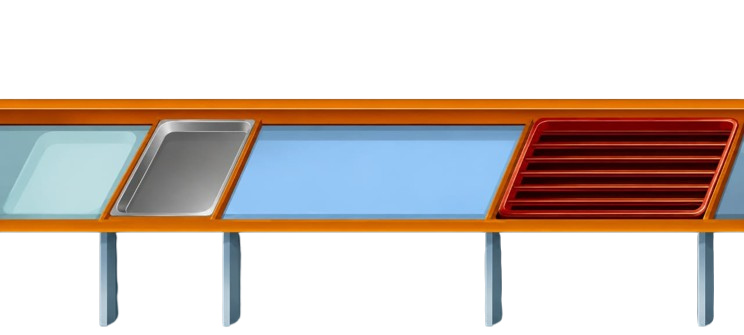
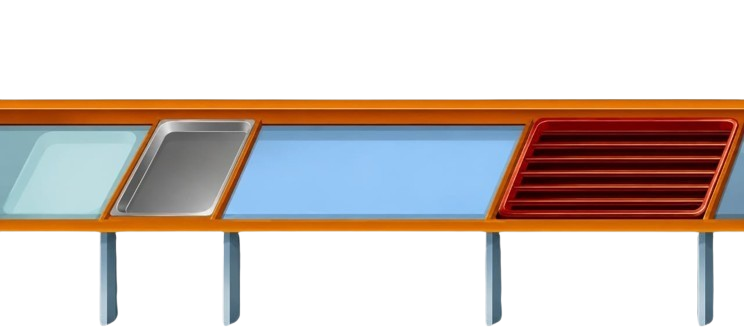
Ultimos arreglos generales

diff --git a/EMPANADAS/css/niveles.css b/EMPANADAS/css/niveles.css
@@ -129,7 +129,7 @@
 
     z-index: 3;
 
-    bottom: -20px;
+    bottom: -40px;
     left: 50%;
 
     transform: translateX(-50%);
@@ -152,14 +152,48 @@
 ========================= */
 
 .estrella {
-    width: 28px;
-    height: 28px;
+    width: 55px;
+    height: 55px;
 
     object-fit: contain;
 
     display: block;
 
     pointer-events: none;
+}
+
+/* ========================================
+   AJUSTE INDIVIDUAL DE CADA ESTRELLA
+======================================== */
+
+.estrella-1 {
+    transform: translateY(0px);
+    transform: translateX(15px);
+}
+
+.estrella-2 {
+    transform: translateY(13px);
+}
+
+.estrella-3 {
+    transform: translateY(0px);
+    transform: translateX(-15px);
+}
+
+/* ========================================
+   ESTRELLAS NIVEL 1 - AJUSTE INDIVIDUAL
+======================================== */
+
+#estrellas-nivel-1 .estrella-1 {
+    transform: translate(14px, 7px);
+}
+
+#estrellas-nivel-1 .estrella-2 {
+    transform: translate(4px, 20px);
+}
+
+#estrellas-nivel-1 .estrella-3 {
+    transform: translate(-10px, 7px);
 }
 
 
@@ -179,7 +213,7 @@
 /* Efecto de nivel desbloqueado */
 
 .nivel.desbloqueado:hover {
-    transform: scale(1.1);
+    transform: scale(1.03);
 }
 
 
